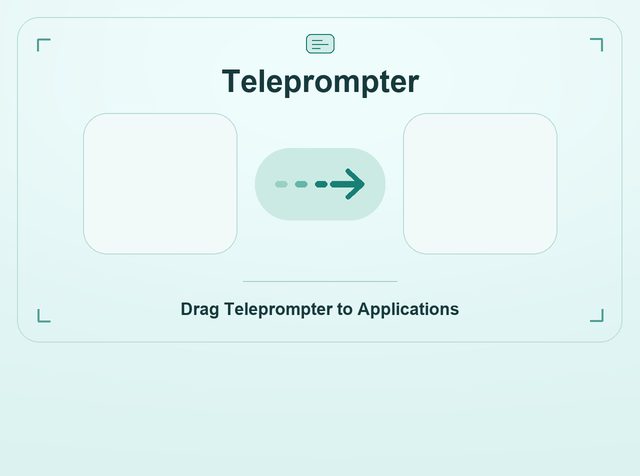
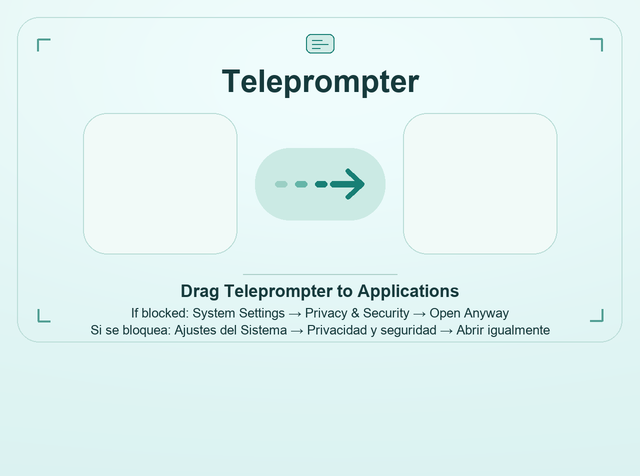
Document first launch in both READMEs and the installer

Changed region(s): [[0.125, 0.5882, 0.875, 0.7059]]

diff --git a/README.es.md b/README.es.md
@@ -20,7 +20,9 @@ Requiere **macOS 14 o posterior**. La descarga admite Apple Silicon e Intel.
 2. Arrastra **Teleprompter** a **Aplicaciones** y ábrelo desde allí.
 3. Usa el icono de Teleprompter en la barra de menús para pegar o editar un guion y abrir el lector.
 
-La descarga pública usa firma ad hoc y carece de notarización. Si macOS bloquea la descarga, puedes compilar la app en tu Mac con las instrucciones de abajo. La primera vez que actives la escucha, macOS puede pedir permiso para acceder al micrófono y al reconocimiento de voz.
+La descarga pública usa firma ad hoc y carece de notarización. Si macOS bloquea el primer arranque y confías en la descarga de este repositorio, cierra el aviso y ve a **Ajustes del Sistema → Privacidad y seguridad → Abrir igualmente**. Esto autoriza esta app en tu Mac. También puedes [compilarla desde el código](#compilar-desde-el-código). [Guía de Apple para abrir apps](https://support.apple.com/es-es/102445)
+
+La primera vez que actives la escucha, macOS puede pedir permiso para acceder al micrófono y al reconocimiento de voz.
 
 ## Leer un guion
 

diff --git a/README.md b/README.md
@@ -20,7 +20,9 @@ Requires **macOS 14 or later**. The download supports Apple Silicon and Intel.
 2. Drag **Teleprompter** into **Applications**, then open it from Applications.
 3. Use the Teleprompter icon in the menu bar to paste or edit a script and open the reader.
 
-The public download uses ad hoc signing and is not notarized. If macOS blocks the download, you can build the app locally from the instructions below. When you first start listening, macOS may ask for microphone and speech recognition permissions.
+The public download uses ad hoc signing and is not notarized. If macOS blocks the first launch and you trust the download from this repository, close the alert and go to **System Settings → Privacy & Security → Open Anyway**. This authorizes this app on your Mac. You can also [build it from source](#build-from-source). [Apple's guide to opening apps](https://support.apple.com/en-us/102445)
+
+When you first start listening, macOS may ask for microphone and speech recognition permissions.
 
 ## Read a script
 
